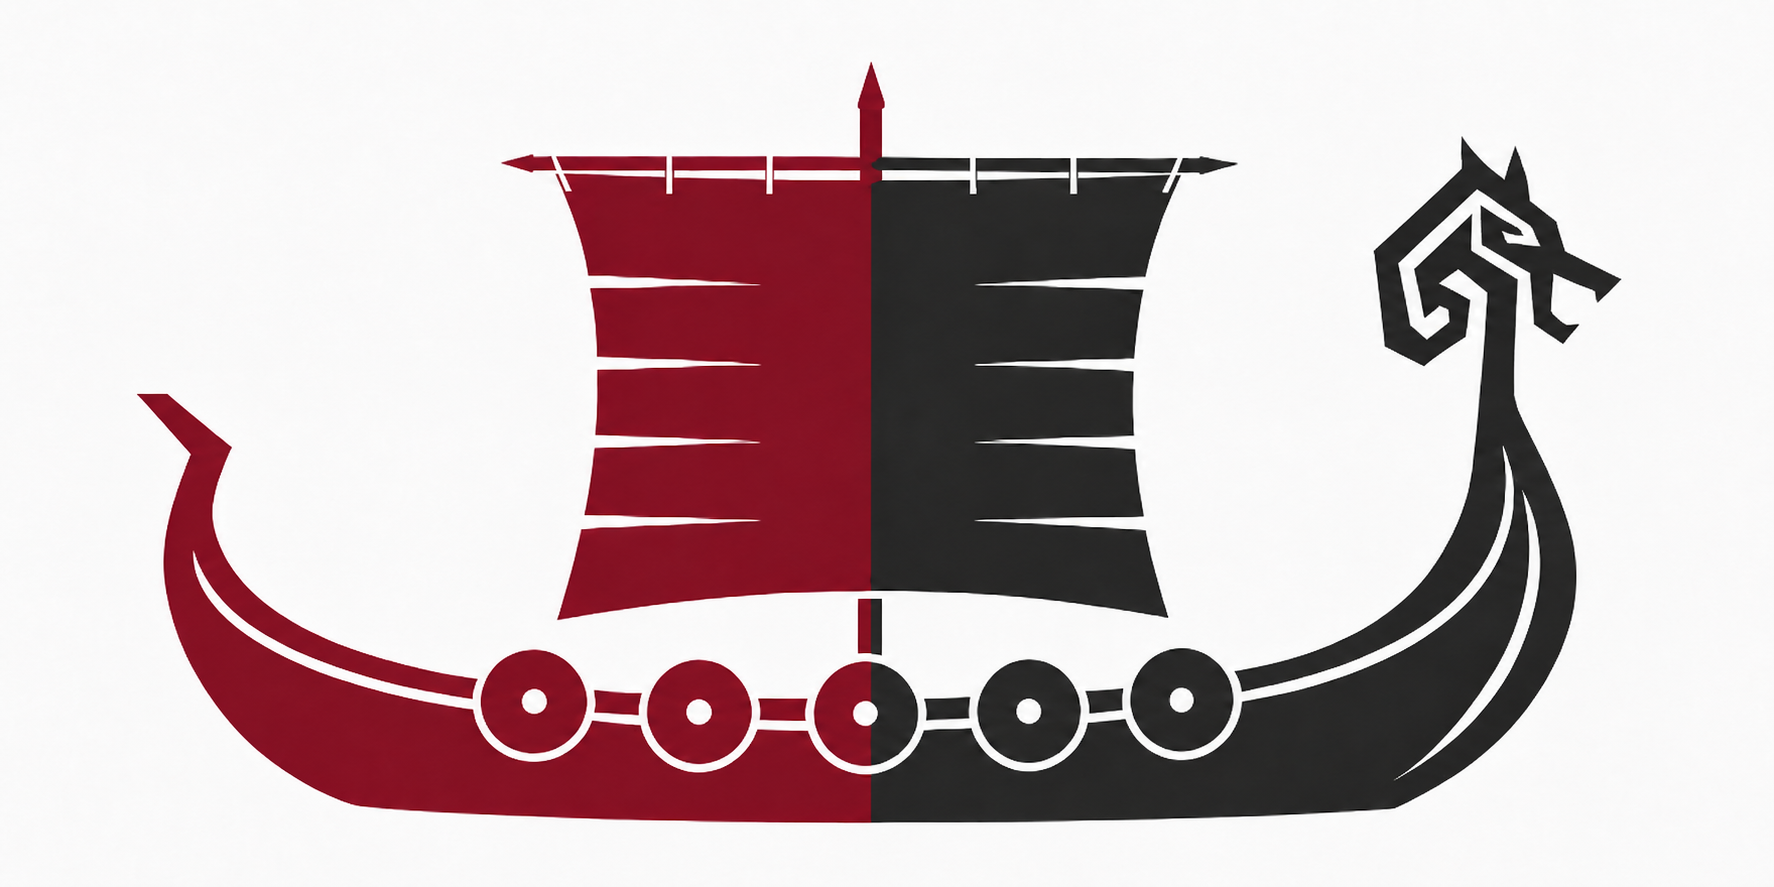
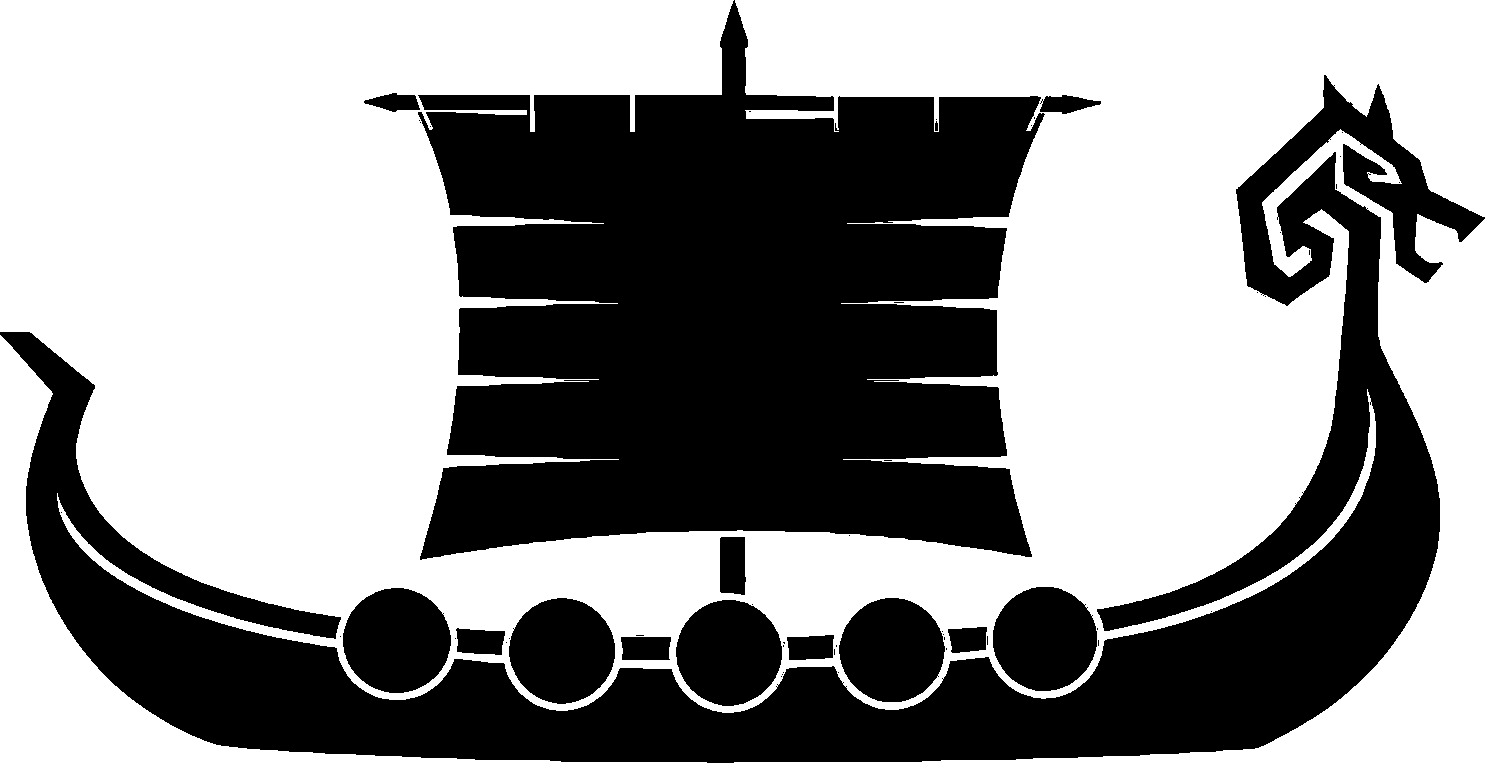
longship.png: strip white background to alpha + binarize + crop; tune component dimensions to match the new ≈1.946:1 aspect
PNG processing:
- Was RGB on white (~249,249,249 background, no alpha). Flood-filled
  the exterior from a grid of edge seeds with thresh=25 so the
  antialiased halo around the silhouette gets caught too. Anything
  not flooded becomes solid black with alpha=255; flooded becomes
  alpha=0.
- Result is a tight binary mask cropped to the silhouette's bounding
  box. File shrinks from 1.3 MB → 13 KB (~99% smaller) because PNG
  optimization on a two-tone alpha image is brutal.
- Color of the silhouette doesn't matter (CSS mask reads alpha only),
  but binarising it produces crisper edges than a fuzzy RGB silhouette
  would after rescaling.

Longship.tsx dimensions:
- The cropped PNG is 1485×763 (aspect 1.946:1). Previous 90×54
  containers had aspect 1.667:1 → mask-size: contain centered the
  ship vertically and left a ~4px gutter top and bottom. The gradient
  spans the full container, so at percentile=50 the waterline would
  cut the gutter rather than the ship's actual middle.
- Updated sizes to match the new aspect:
    inline:  64×33  (was 56×34)
    small:  100×51  (was 90×54)
    large:  180×92  (was 160×96)
  Now the gradient's 0% and 100% align exactly with the ship's
  visible top and bottom — percentile maps 1:1 to visible fill.

diff --git a/components/Longship.tsx b/components/Longship.tsx
@@ -106,19 +106,22 @@ export function Longship({
 
   // Inline variant — no card chrome at all, just the ship. Used in
   // the submission detail score breakdown.
+  // Container dimensions match the cropped PNG aspect (≈1.946:1) so
+  // the gradient's 0–100% mark exactly tracks the ship's visible
+  // top and bottom — no gutter to throw off the waterline.
   if (size === "inline") {
     return (
       <LongshipSVG
         percentile={percentile}
         dimension={dimension}
-        width={56}
-        height={34}
+        width={64}
+        height={33}
       />
     );
   }
 
-  const shipWidth = size === "large" ? 160 : 90;
-  const shipHeight = size === "large" ? 96 : 54;
+  const shipWidth = size === "large" ? 180 : 100;
+  const shipHeight = size === "large" ? 92 : 51;
   const topPctClass =
     size === "large"
       ? "font-display text-[24px] leading-[1.1] tracking-[-0.012em] tabular-nums"
